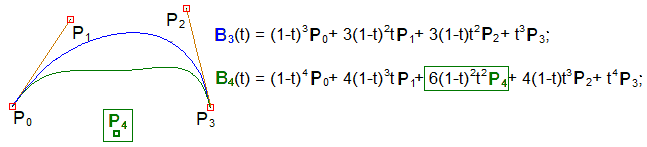
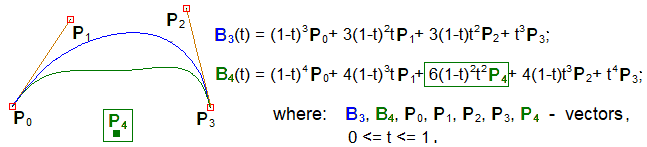
v 1.0

diff --git a/README.md b/README.md
@@ -1,8 +1,7 @@
 ##  Air Foil design based on Bezier curves - graph. editor
 ![pikFoil](/assets/images/pikFoil80.png)
 
-Text_1
-
+Editor uses Bezier curves of 3 and 4 degree. The vector form looks like:
 ![Bezier3,4](/assets/images/03.png)
-
-Text_2
+A vector is a point with two coordinates: x, y .
+Control point P4 (green) of B4 — controls the middle part of the curve.
